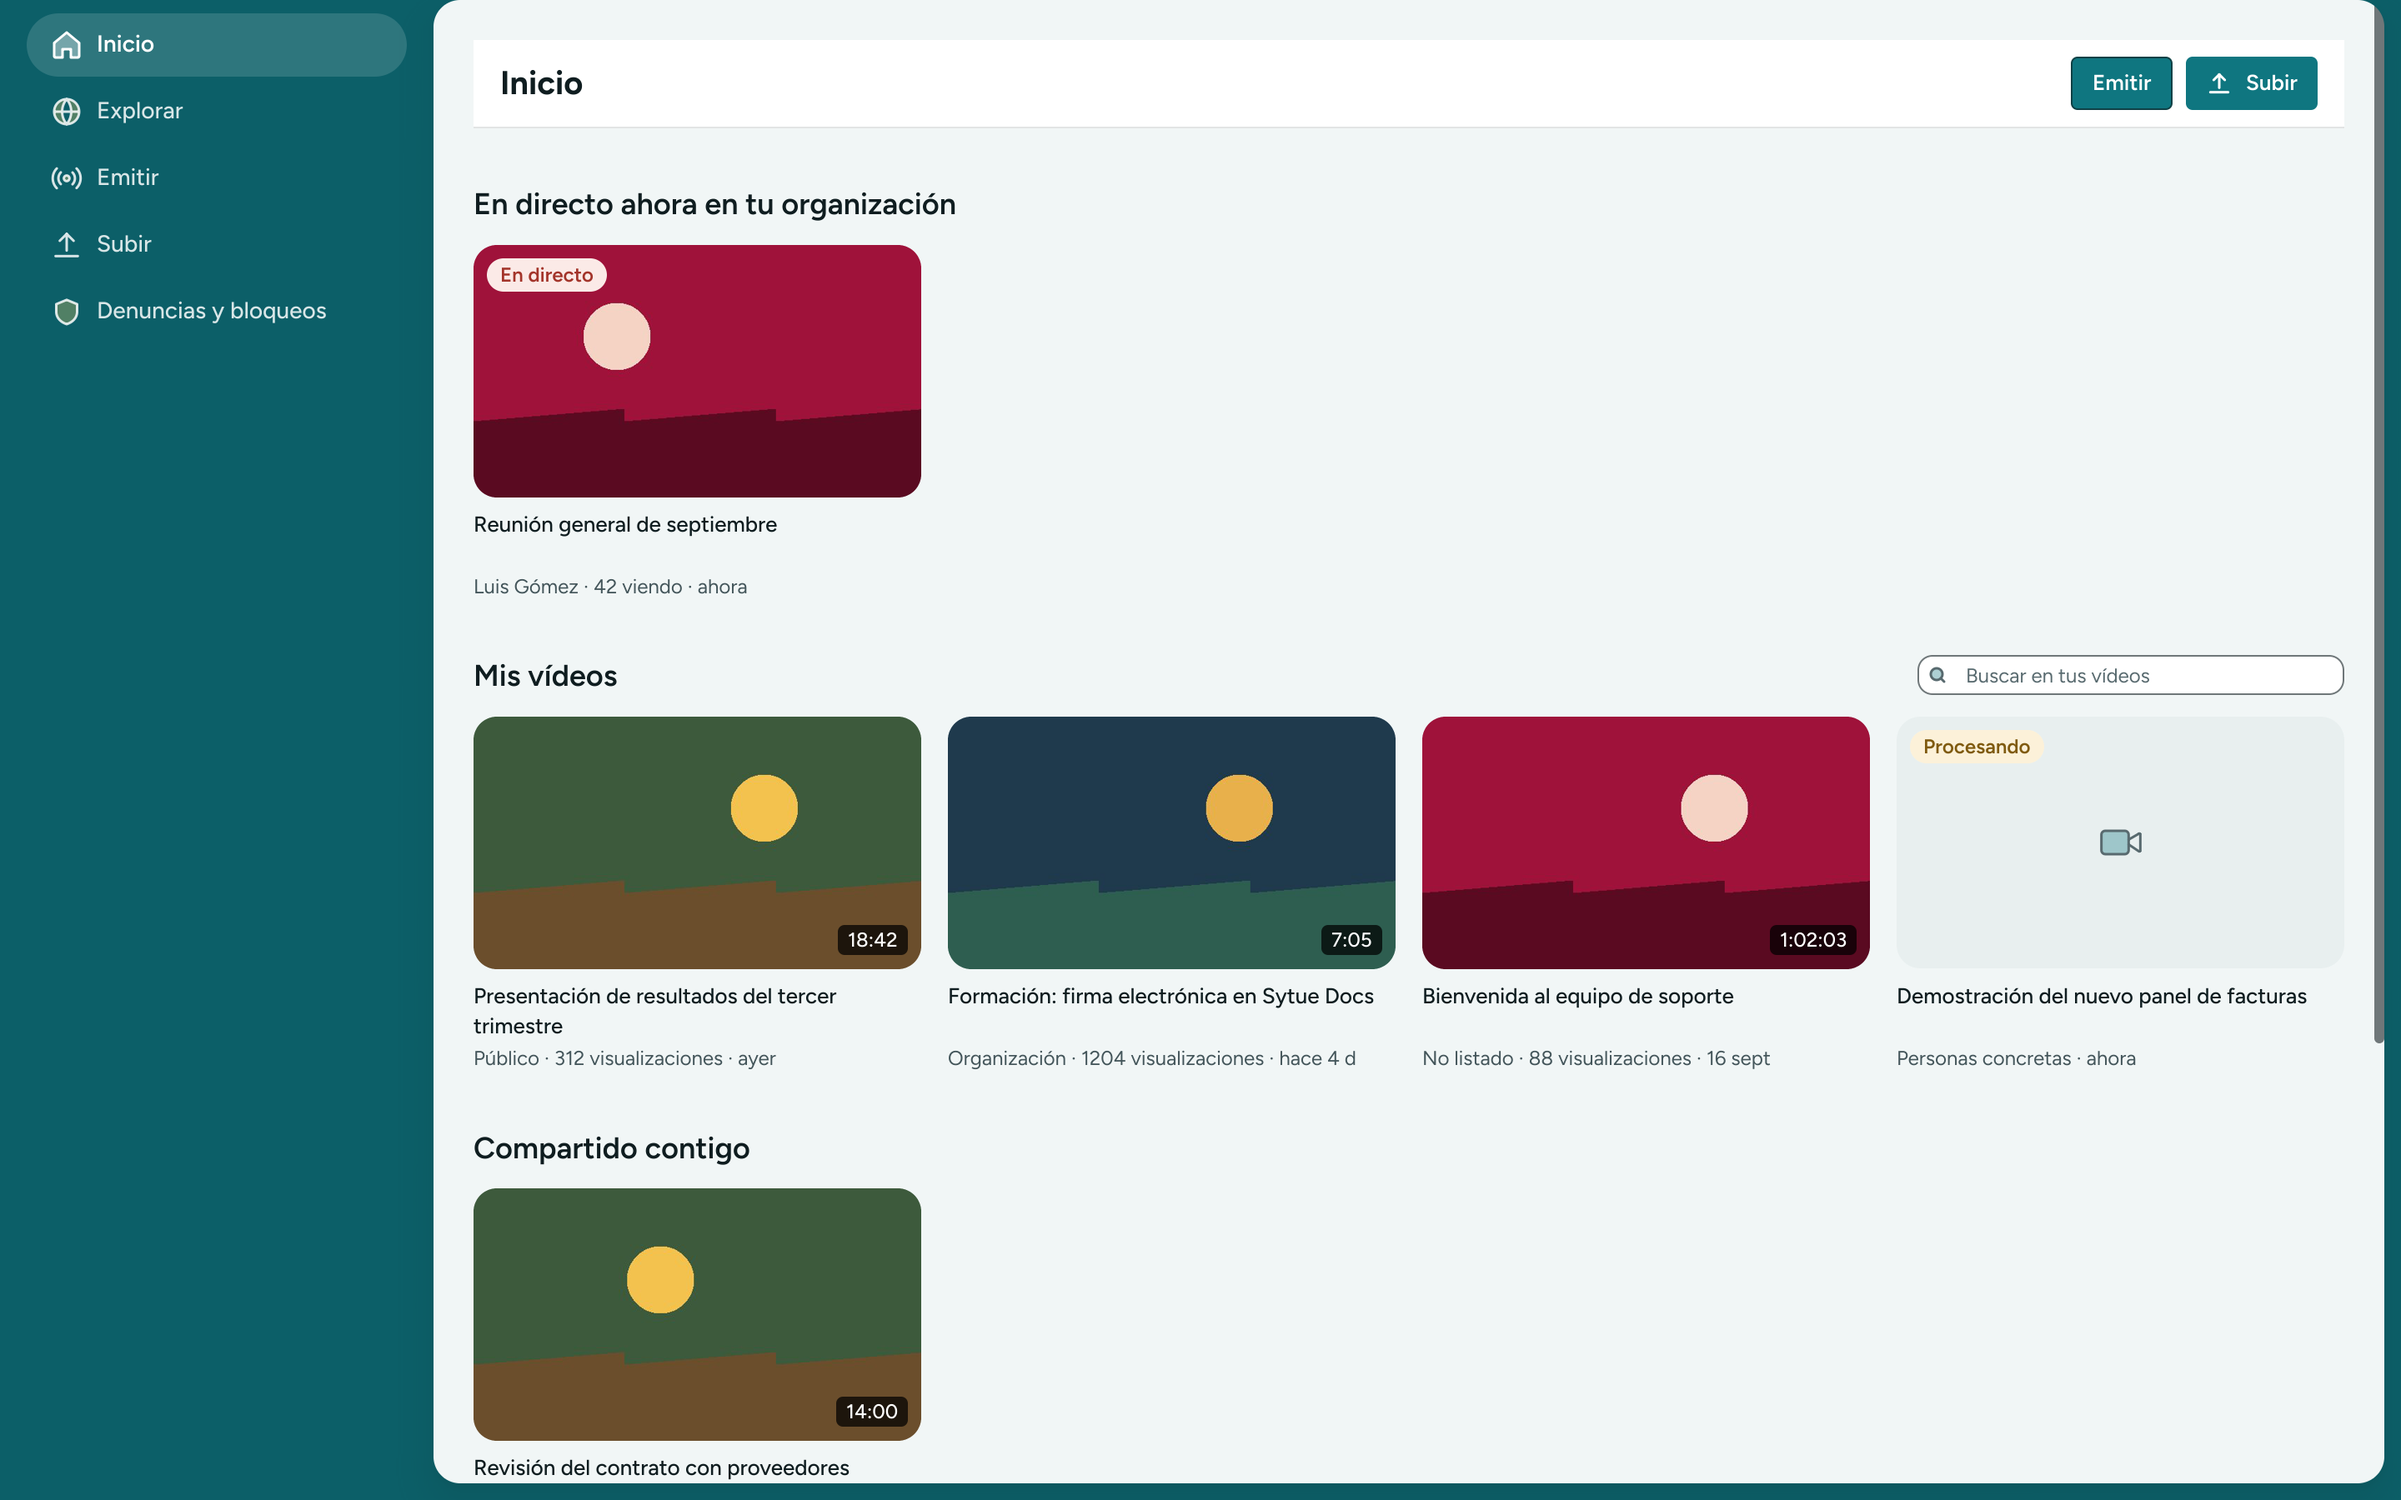
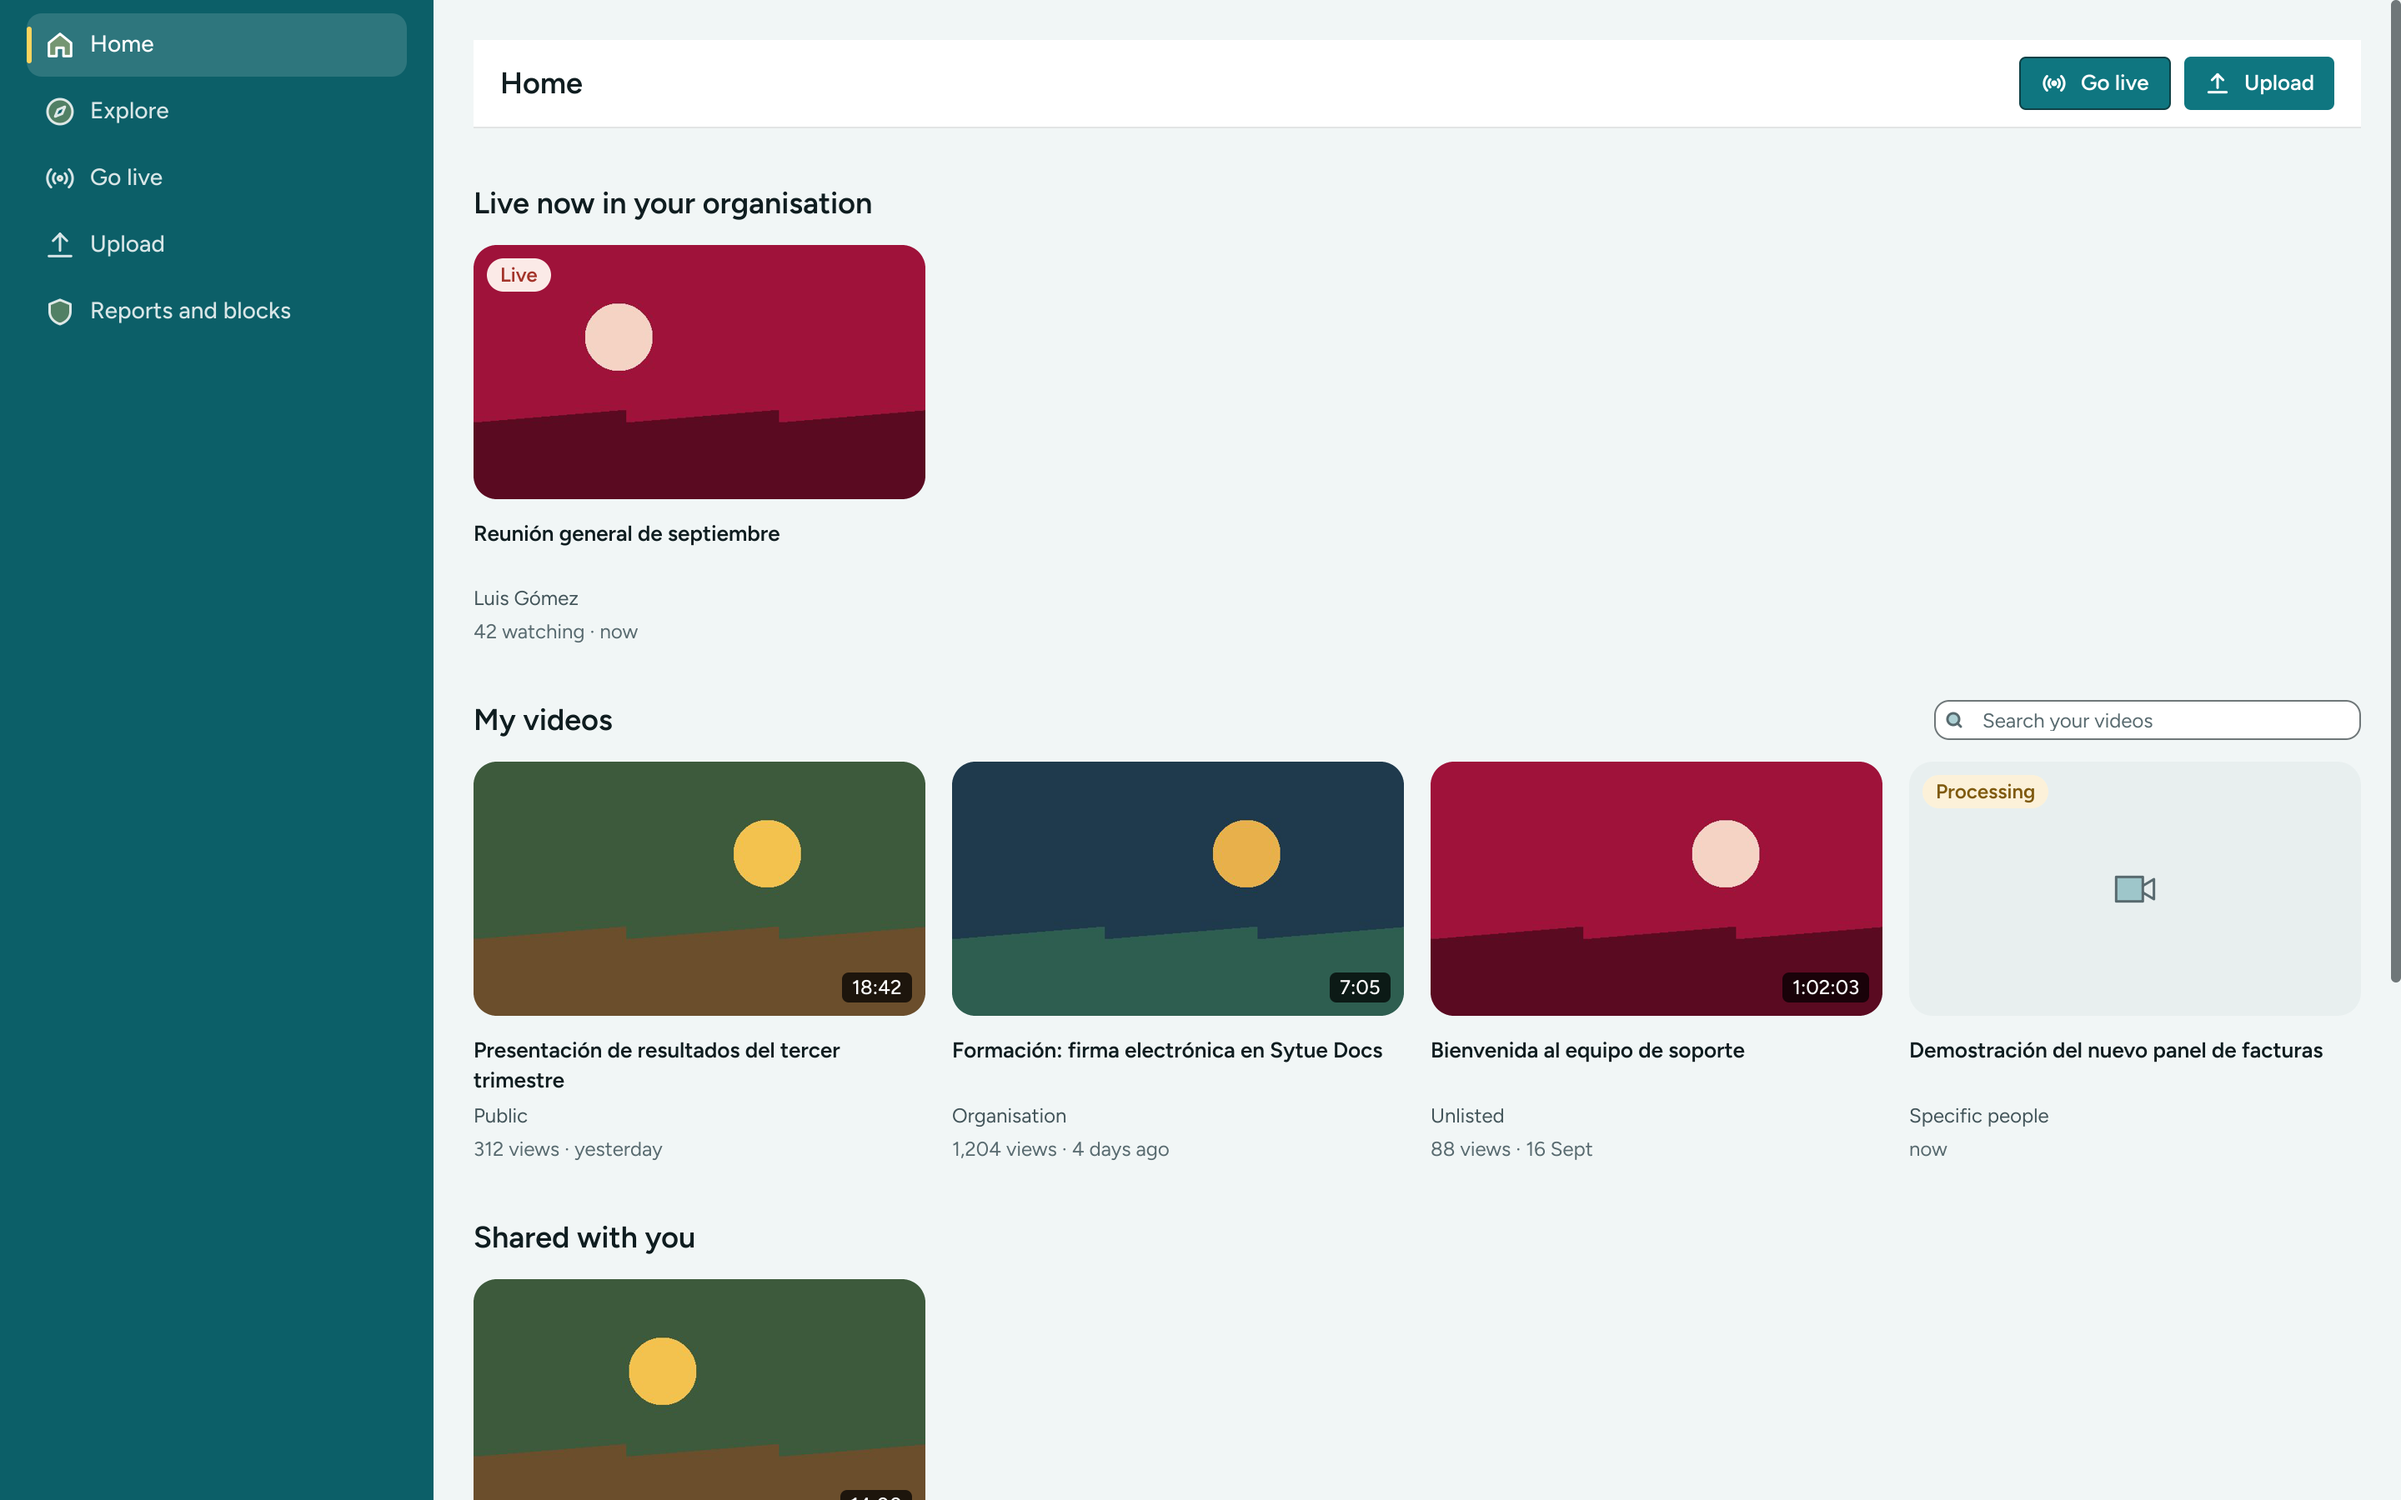
docs: native screenshots regenerated with the English interface
The six desktop (2880x1800) and two phone (1179x2556) screenshots come from
the apps' own walkthrough with the fake service (SYTUE_CAPTURAS_PLAY) and
SYTUE_CAPTURAS_IDIOMA=en, on the current code and Fyne v2.8.2-sytue.7. The
README notes that the UI is English while the demo content is Spanish, and
its image alt texts are now English.

Claude-Session: https://claude.ai/code/session_01K7a9FMBbbD2TmWCqGFj1QD

diff --git a/README.md b/README.md
@@ -10,7 +10,7 @@ email, files, documents, spreadsheets, presentations, PDF, calendar,
 contacts, chat and video calls, notes, photos, video, website builder, databases,
 ERP and PaaS, with **a single account and a single experience**.
 
-![Sytue One — portal de la suite](docs/capturas/web-one.webp)
+![Sytue One — suite portal](docs/capturas/web-one.webp)
 
 ---
 
@@ -109,7 +109,7 @@ committing to a service level.
 <a id="capturas-de-pantalla"></a>
 ## Screenshots
 
-> All screenshots use a demo organization with fictitious data (reserved domains `.test`/`.example`).
+> All screenshots use a demo organization with fictitious data (reserved domains `.test`/`.example`). The interface is shown in English; the demo content itself (emails, notes, file names) is in Spanish.
 
 <a id="aplicaciones-web"></a>
 ### Web applications
@@ -137,7 +137,7 @@ committing to a service level.
 | **Sytue Cast** | **Sytue Bases** |
 | ![Sytue Cast](docs/capturas/nativa-cast.png) | ![Sytue Bases](docs/capturas/nativa-bases.png) |
 | **Sytue Notepads** | **Mobile (iOS / Android): Mail and Rooms** |
-| ![Sytue Notepads](docs/capturas/nativa-notes.png) | <img src="docs/capturas/movil-mail.png" width="48%" alt="Sytue Mail móvil"> <img src="docs/capturas/movil-rooms.png" width="48%" alt="Sytue Rooms móvil"> |
+| ![Sytue Notepads](docs/capturas/nativa-notes.png) | <img src="docs/capturas/movil-mail.png" width="48%" alt="Sytue Mail on mobile"> <img src="docs/capturas/movil-rooms.png" width="48%" alt="Sytue Rooms on mobile"> |
 
 ---
 
